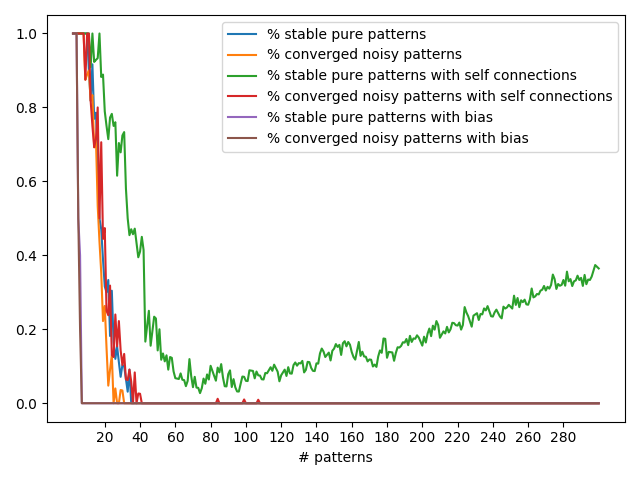
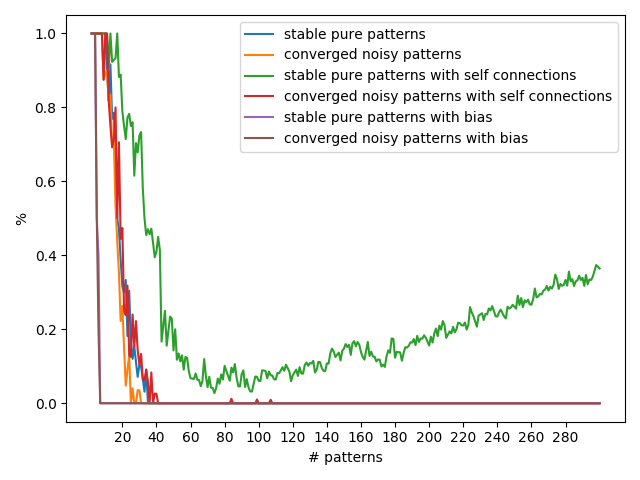
Fix generation of data and minor changes for analysis, task 3.6

diff --git a/Lab 3/lab3/hopfieldnetwork.py b/Lab 3/lab3/hopfieldnetwork.py
@@ -5,27 +5,33 @@ def sign(x):
     return np.where(x >= 0, 1, -1)
 
 
+def compute_activity(patterns):
+    N, P = patterns.shape
+    return 1. / (N*P) * np.sum(patterns)
+
+
 class HopfieldNetwork:
     """Hopfield Neural Network using Hebbian learning."""
 
-    def __init__(self, self_connections=False):
+    def __init__(self, self_connections=False, sparse=False, bias=None):
         self.weights = None
         self.n_neurons = None
         self.trained = False
         self.self_connections = self_connections
+        self.sparse = sparse
+        self.bias = bias
 
-    def learn(self, patterns, sparse=False, activity=None):
+    def learn(self, patterns):
         """Hebbian learning."""
         self.n_neurons = patterns.shape[1]
         if not self.trained:
             self.weights = np.zeros((self.n_neurons, self.n_neurons))
-        normalizer = 1 / self.n_neurons
 
-        if sparse:
-            if activity is None:
-                raise ValueError("Activity level not set")
-            activity = np.ones(patterns.shape)*activity
-            patterns = patterns - activity
+        if self.sparse:
+            patterns = patterns - compute_activity(patterns)
+            normalizer = 1
+        else:
+            normalizer = 1 / self.n_neurons
 
         for pattern in patterns:
             self.weights += normalizer*np.outer(pattern, pattern)
@@ -33,7 +39,7 @@ class HopfieldNetwork:
             np.fill_diagonal(self.weights, 0)     # no self connections
         self.trained = True
 
-    def recall(self, pattern, update_rule='asynch', max_iters=None, theta=None, plot=False):
+    def recall(self, pattern, update_rule='asynch', max_iters=None, plot=False):
         """Feed pattern into the network to recall a stored pattern."""
         error = 1
         iterations = -1
@@ -48,15 +54,9 @@ class HopfieldNetwork:
             if update_rule == 'synch':
                 new_state, energy_ = self._synchronous_update(state)
                 energy.append(energy_)
-
             elif update_rule == 'asynch':
                 new_state, energy_ = self._asynchronous_update(state, plot)
                 energy.extend(energy_)
-
-            elif update_rule == 'sparse':
-                new_state = self._sparse_update(state, theta)
-                energy.append(self.compute_energy(new_state))
-
             else:
                 raise ValueError("Wrong update rule specified")
 
@@ -67,8 +67,11 @@ class HopfieldNetwork:
 
     def _synchronous_update(self, state):
         """Update weights synchronously."""
-        state = sign(self.weights.dot(state))
-        energy = self.compute_energy(state)
+        if not self.sparse:
+            state = sign(self.weights.dot(state))
+        else:
+            state = 0.5 + 0.5 * sign(self.weights.dot(state) - self.bias)
+        energy = self._compute_energy(state)
         return state, energy
 
     def _asynchronous_update(self, state, plot=False):
@@ -79,8 +82,11 @@ class HopfieldNetwork:
         energy = []
 
         for i, idx in enumerate(order):
-            state[idx] = sign(self.weights[idx].dot(state))
-            energy.append(self.compute_energy(state))
+            if not self.sparse:
+                state[idx] = sign(self.weights[idx].dot(state))
+            else:
+                state[idx] = 0.5 + 0.5 * sign(self.weights[idx].dot(state) - self.bias)
+            energy.append(self._compute_energy(state))
 
             # plot each 100 iterations
             if plot and i % 100 == 0:
@@ -88,11 +94,7 @@ class HopfieldNetwork:
                 u.plot_picture(state, title='Sequential dynamics - {} iterations'.format(i))
         return state, energy
 
-    def _sparse_update(self, state, theta):
-        """Update the weights sparsely."""
-        return 0.5 + 0.5*sign(self.weights.dot(state) - theta)
-
-    def compute_energy(self, state):
+    def _compute_energy(self, state):
         """Compute energy (Lyapunov function)."""
         product = np.linalg.multi_dot([state, self.weights, state])
         energy = -np.sum(product)

diff --git a/Lab 3/lab3/task3_6.py b/Lab 3/lab3/task3_6.py
@@ -1,40 +1,49 @@
 import numpy as np
-import matplotlib.pyplot as plt
+import utility as u
+import itertools as it
 from hopfieldnetwork import HopfieldNetwork
 
-data = np.loadtxt('datasets/pict.dat', delimiter=",").reshape(-1,1024)
+
+def generate_random_patterns(n_patterns, dimension, activity):
+    # choice idx of 1s, the number is such that the activity is the wanted one
+    idx = np.random.choice(n_patterns * dimension, size=int(round(activity*n_patterns*dimension)), replace=False)
+
+    # fill 1s in the right positions
+    patterns = np.zeros((n_patterns, dimension))
+    for i in idx:
+        row = int(i / dimension)
+        col = i % dimension
+        patterns[row, col] = 1
+    return patterns
 
 
-def generate_random_patterns(nPatterns, dimension, activity, bias=False):
+np.random.seed(1)
+patterns = u.load_pictures()
 
-    if bias:
-        random_data = np.random.randn(nPatterns, dimension) + 0.5
-    else:
-        random_data = np.random.randn(nPatterns, dimension)
+thetas = np.arange(0, 10, 0.1)
+dimension = 100
+activities = [0.1, 0.05, 0.01]
+bias_pattern_matrix = np.zeros(len(thetas))
 
-    random_patterns = np.where(random_data < activity, 1, 0)
-    return random_patterns
+print('Row: theta\nCol: # patterns\nValue: # patterns stored')
+for activity in activities:
+    for i, theta in enumerate(thetas):
+        for n in it.count(1):
+            np.random.seed(1)
+            patterns = generate_random_patterns(n, dimension, activity=activity)
+            hn = HopfieldNetwork(sparse=True, bias=theta)
+            hn.learn(patterns)
 
-def assignment3_6_1():
+            all_stored = True
+            for pattern in patterns:
+                recall = hn.recall(pattern)[0]
+                if not np.array_equal(recall, pattern):
+                    all_stored = False
+            if all_stored:
+                bias_pattern_matrix[i] = n
+            else:
+                break   # capacity reached
 
-    thetas = np.arange(0, 3, 0.1)
-    n_patterns = np.arange(1,10)
-    dimension = 100
-    bias_pattern_matrix = np.zeros((len(thetas),len(n_patterns)))
-    for idx, theta in enumerate(thetas):
-
-        for jdx, pattern in enumerate(n_patterns):
-            training_set = generate_random_patterns(pattern, dimension, activity=0.1)
-            count = 0
-            for i in range(pattern):
-                hn = HopfieldNetwork()
-                hn.learn(training_set[0:i], sparse=True, activity=0.1, self_connections=True)
-                recall = hn.recall(training_set[i-1], update_rule='sparse', theta=theta)[0]
-                if np.array_equal(recall, training_set[i-1]):
-                    count += 1
-            bias_pattern_matrix[idx][jdx] = count
-
-    print("Rows are the thetas and columns are the number of patterns and the elements how many correctly remembered patterns:")
+    print()
+    print('Activity:', activity)
     print(bias_pattern_matrix)
-
-assignment3_6_1()

diff --git a/Lab 3/lab3/task3_5.py b/Lab 3/lab3/task3_5.py
@@ -26,8 +26,8 @@ def capacity_pictures():
         ratios.append(0)
         for pattern in stored_patterns:
             dist_pattern = u.add_noise(pattern, noise_perc)
-            recall_pattern = hn.recall(dist_pattern, update_rule='synch')[0]
-            ratios[-1] += measure_convergence(pattern, recall_pattern)
+            recall = hn.recall(dist_pattern, update_rule='synch')[0]
+            ratios[-1] += measure_convergence(pattern, recall)
         ratios[-1] /= n
 
     plt.plot(n_patterns, ratios, '-s')
@@ -55,8 +55,8 @@ def capacity_random_patterns():
         ratios.append(0)
         for pattern in stored_patterns:
             dist_pattern = u.add_noise(pattern, noise_perc)
-            recall_pattern = hn.recall(dist_pattern, update_rule='synch', max_iters=100)[0]
-            ratios[-1] += measure_convergence(pattern, recall_pattern)
+            recall = hn.recall(dist_pattern, update_rule='synch', max_iters=100)[0]
+            ratios[-1] += measure_convergence(pattern, recall)
         ratios[-1] /= n
         print(n)
 
@@ -113,10 +113,11 @@ def catastrophic_forgetting():
             end_label += ' with self connections'
         if bias:
             end_label += ' with bias'
-        plt.plot(n_patterns, counter_pure, label='% stable pure patterns' + end_label)
-        plt.plot(n_patterns, counter_dist, label='% converged noisy patterns' + end_label)
+        plt.plot(n_patterns, counter_pure, label='stable pure patterns' + end_label)
+        plt.plot(n_patterns, counter_dist, label='converged noisy patterns' + end_label)
 
     plt.xlabel('# patterns')
+    plt.ylabel('%')
     plt.xticks(np.arange(20, n_patterns[-1], 20))
     plt.legend()
     plt.show()

diff --git a/Lab 3/lab3/task3_3.py b/Lab 3/lab3/task3_3.py
@@ -11,14 +11,14 @@ hn = u.store_pictures(stored_patterns)
 
 # energy at attractors
 for i in range(len(stored_patterns)):
-    print('Energy at attractor of picture {}: {}'.format(i + 1, hn.compute_energy(patterns[i])))
+    print('Energy at attractor of picture {}: {}'.format(i + 1, hn._compute_energy(patterns[i])))
 
 # energy at attractors of and at distorted patterns
 for i in [9, 10]:
     result = hn.recall(patterns[i], update_rule='asynch')
     energy = result[1]
     print('Energy at attractor of picture {}: {}'.format(i + 1, energy[-1]))
-    print('Energy at distorted picture {}: {}'.format(i + 1, hn.compute_energy(patterns[i])))
+    print('Energy at distorted picture {}: {}'.format(i + 1, hn._compute_energy(patterns[i])))
     u.plot_energy(energy, label='distorted p{}'.format(i + 1))
 plt.show()
 
